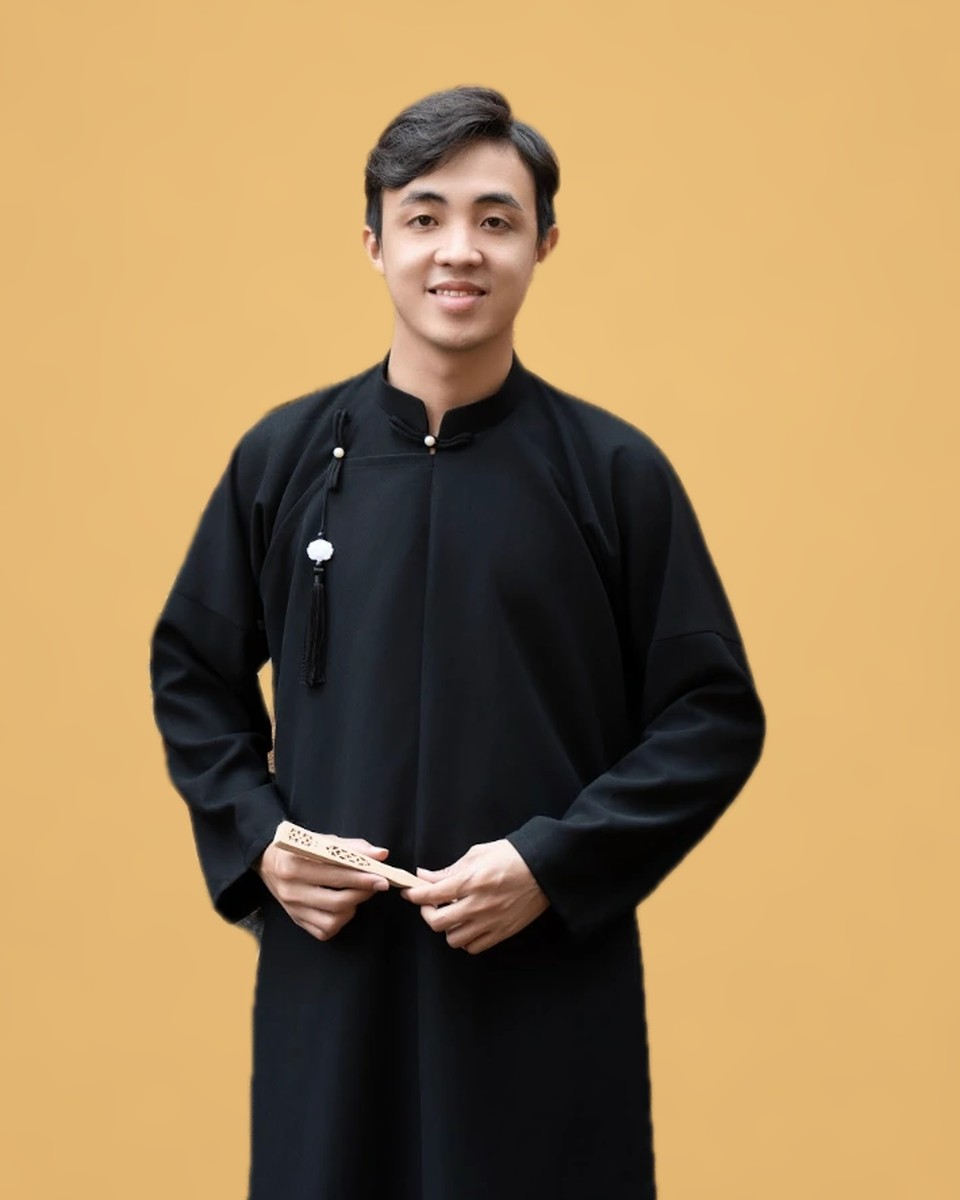
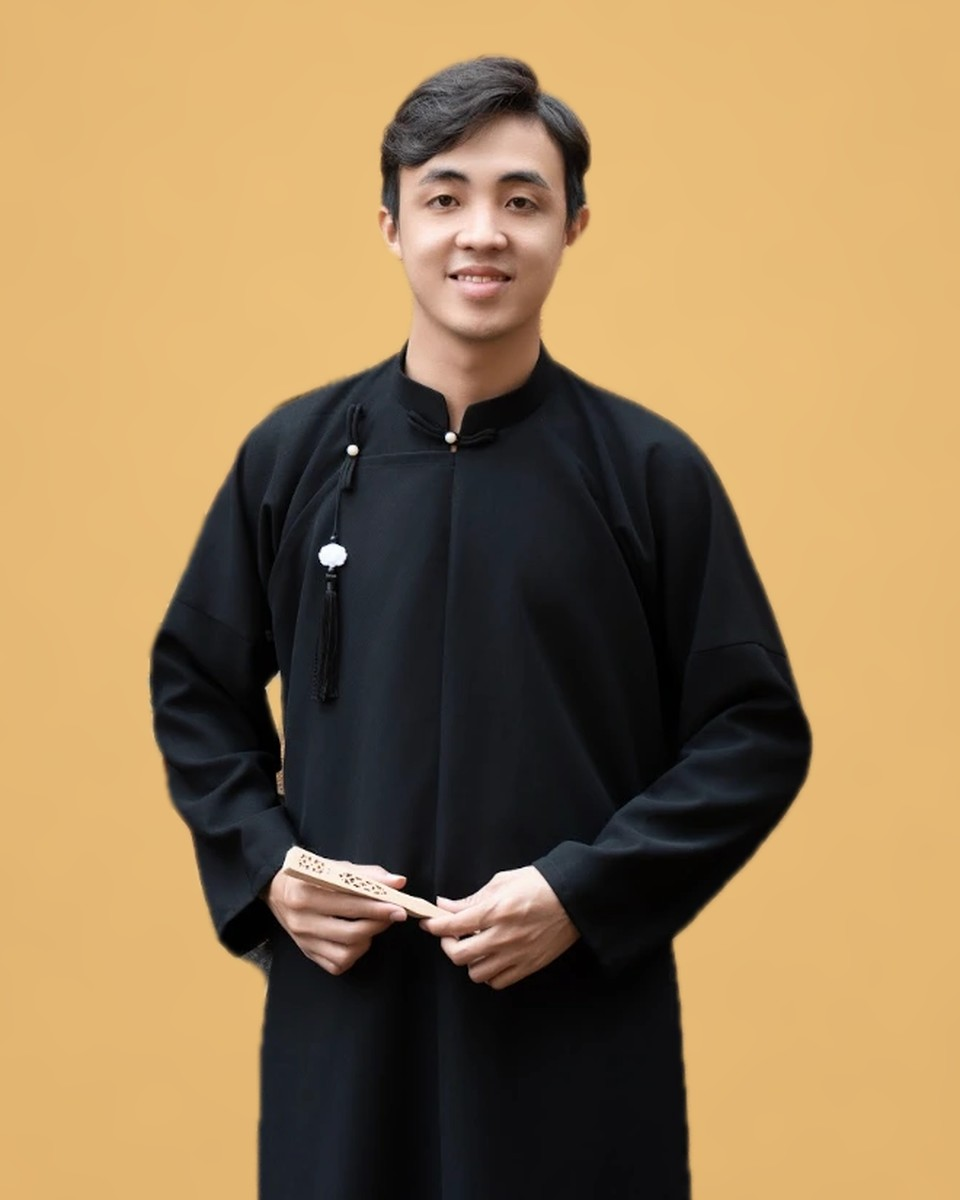
Center portrait on body, show full arms and hands

Changed region(s): [[0.1562, 0.0308, 0.8438, 1.0], [0.6875, 0.4933, 0.7188, 0.5242], [0.625, 0.4008, 0.6562, 0.4317]]

diff --git a/styles.css b/styles.css
@@ -265,7 +265,7 @@ ul, ol { margin: 0; padding: 0; list-style: none; }
   background: var(--surface);
   box-shadow: var(--shadow);
 }
-.hero__portrait img { width: 100%; height: 100%; object-fit: cover; object-position: 50% 12%; transform: scale(1.5); transform-origin: 50% 14%; }
+.hero__portrait img { width: 100%; height: 100%; object-fit: cover; object-position: 50% 50%; }
 
 .portrait-fallback { display: none; }
 .hero__portrait.is-fallback .portrait-fallback {
